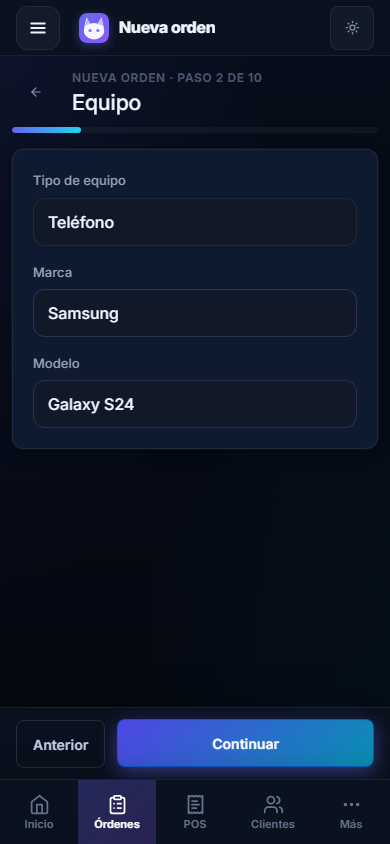
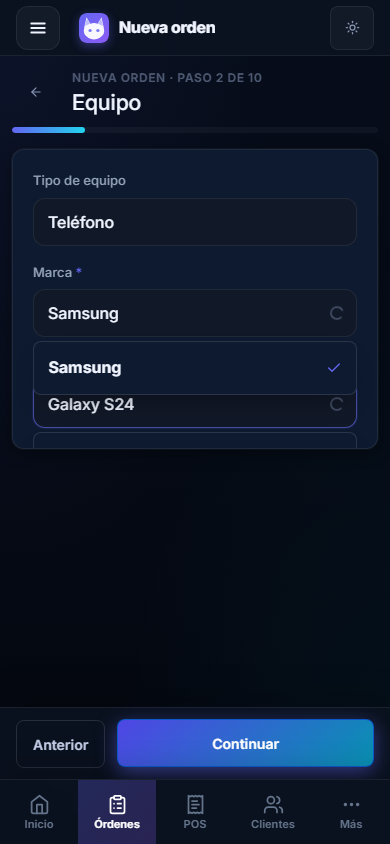
fix(orders): wire intake to the new UI authorities
Cablea al wizard las tres piezas del lote y agrega la cobertura que faltaba.

  - Marca y modelo pasan de `<datalist>` a `AppCombobox`, con el estado de
    carga del catalogo.
  - Presupuesto pasa a `AppMoneyInput`. El resumen deja de mostrar
    `ARS 85.000` como texto crudo y usa `formatMoney`.
  - El scanner recibe que identificador se esta escaneando.

Tests de WebKit REAL

Este bloque existe porque el E2E responsive que ya habia NO detecto nada de lo
que el owner encontro en dos minutos con su telefono. Corria Chromium con el
viewport chico, y los dos bugs eran divergencias de MOTOR, no de ancho:
Chromium tiene `BarcodeDetector` y renderiza `<datalist>`, asi que daba verde
con los dos defectos presentes.

Se agrega el proyecto `webkit-mobile` (iPhone 13, WebKit real) que corre solo
los specs bajo `tests/e2e/webkit/`, para no duplicar el tiempo de CI. Prueba
contra el motor que `BarcodeDetector` no existe, que la lista de marcas SI se
despliega ahora, que el texto libre sigue permitido, y que cambiar de moneda no
convierte el importe.

LIMITE HONESTO, anotado en el propio spec: el WebKit headless de Playwright
comparte motor con Safari pero no trae el stack de medios, asi que
`navigator.mediaDevices` no existe aunque en Safari iOS sobre HTTPS si. Los
tests de camara INYECTAN `mediaDevices` para reproducir el equipo del owner.
Lo que WebKit prueba por si solo es la ausencia de `BarcodeDetector`. Esto no
reemplaza un smoke en un iPhone de verdad.
[…]

Changed region(s): [[0.0923, 0.4005, 0.3385, 0.4929], [0.8308, 0.4313, 0.9231, 0.5237]]

diff --git a/src/pages/NewOrder.tsx b/src/pages/NewOrder.tsx
@@ -4,7 +4,8 @@ import { ArrowLeft, Camera, ChevronLeft, ChevronRight, ScanLine, ShieldCheck, Tr
 import { customersService } from '../services/api'
 import { ensureBrandAndModel } from '../services/deviceCatalogService'
 import type { Customer } from '../lib/supabase'
-import { AppButton, AppInput, AppSelect, AppTextarea, FormGrid, MobileActionBar, ResponsiveDialog } from '../ui'
+import { AppButton, AppCombobox, AppInput, AppMoneyInput, AppSelect, AppTextarea, FormGrid, MobileActionBar, ResponsiveDialog } from '../ui'
+import { formatMoney } from '../lib/money'
 import { useAuth } from '../contexts/AuthContext'
 import { effectivePermissions, usePermissions } from '../hooks/usePermissions'
 import { BarcodeScannerDialog } from '../features/order-intake/BarcodeScannerDialog'
@@ -71,7 +72,7 @@ export function NewOrder() {
   useEffect(()=>{photosRef.current=photos},[photos])
   useEffect(() => () => { photosRef.current.forEach(photo=>URL.revokeObjectURL(photo.preview)) },[])
 
-  const {brands,models}=useDeviceCatalog(draft.device.brand)
+  const {brands,models,loading:catalogLoading}=useDeviceCatalog(draft.device.brand)
 
   const stepError = () => {
     if(step===0&&!draft.customerId)return 'Seleccioná o creá un cliente.'
@@ -143,7 +144,19 @@ export function NewOrder() {
     {step===0&&<StepCard><CustomerPicker businessId={businessId} selectedId={draft.customerId} pinned={createdCustomers} onCreateNew={()=>setQuickOpen(true)} onSelect={customer=>{setSelectedCustomer(customer);update({customerId:customer.id})}}/></StepCard>}
 
     {step===1&&<StepCard><AppSelect label="Tipo de equipo" value={draft.device.type} onChange={e=>updateDevice({type:e.target.value as IntakeDraft['device']['type']})} options={[{value:'smartphone',label:'Teléfono'},{value:'tablet',label:'Tablet'},{value:'laptop',label:'Notebook'},{value:'smartwatch',label:'Smartwatch'},{value:'other',label:'Otro'}]}/>
-      <FormGrid><div><AppInput label="Marca" required value={draft.device.brand} onChange={e=>updateDevice({brand:e.target.value,model:''})} list="intake-brands"/><datalist id="intake-brands">{brands.map(item=><option key={item} value={item}/>)}</datalist></div><div><AppInput label="Modelo" required value={draft.device.model} onChange={e=>updateDevice({model:e.target.value})} list="intake-models"/><datalist id="intake-models">{models.map(item=><option key={item} value={item}/>)}</datalist></div></FormGrid>
+      {/* ORDERS-V2-0.1 — `<datalist>` no despliega sugerencias en WebKit móvil:
+          en el celular esto era un campo de texto pelado. AppCombobox dibuja la
+          lista con marcado propio y sigue aceptando texto libre. */}
+      <FormGrid>
+        <AppCombobox label="Marca" required value={draft.device.brand} options={brands} loading={catalogLoading}
+          data-testid="intake-brand" autoCapitalize="words"
+          emptyHint="No está en el catálogo. Podés escribirla igual."
+          onChange={value=>updateDevice({brand:value,model:''})}/>
+        <AppCombobox label="Modelo" required value={draft.device.model} options={models} loading={catalogLoading}
+          data-testid="intake-model" autoCapitalize="words"
+          emptyHint="No está en el catálogo. Podés escribirlo igual."
+          onChange={value=>updateDevice({model:value})}/>
+      </FormGrid>
     </StepCard>}
 
     {step===2&&<StepCard><div className="intake-field-action"><AppInput label="Número de serie" value={draft.device.serial} onChange={e=>updateDevice({serial:e.target.value})} autoCapitalize="characters"/><AppButton variant="secondary" leftIcon={<ScanLine size={17}/>} onClick={()=>setScanner('serial')}>Escanear</AppButton></div>
@@ -172,7 +185,15 @@ export function NewOrder() {
 
     {step===7&&<StepCard><AppSelect label="Técnico / responsable" value={draft.assignedProfileId} onChange={e=>update({assignedProfileId:e.target.value})} placeholder="Sin asignar" options={profiles.map(profile=>({value:profile.id,label:profile.full_name||profile.email||'Integrante'}))}/><AppSelect label="Prioridad" value={draft.priority} onChange={e=>update({priority:e.target.value as IntakeDraft['priority']})} options={[{value:'medium',label:'Normal'},{value:'high',label:'Importante'},{value:'urgent',label:'Urgente'}]}/></StepCard>}
 
-    {step===8&&<StepCard><p className="form-hint">El presupuesto es opcional y no registra pagos ni movimientos financieros.</p><FormGrid><AppInput semantic="decimal" label="Presupuesto estimado" value={draft.budgetAmount} onChange={e=>update({budgetAmount:e.target.value})} placeholder="Ej. 100.000,50"/><AppSelect label="Moneda" value={draft.budgetCurrency} onChange={e=>update({budgetCurrency:e.target.value as 'ARS'|'USD'})} options={[{value:'ARS',label:'ARS — Pesos'},{value:'USD',label:'USD — Dólares'}]}/></FormGrid></StepCard>}
+    {/* ORDERS-V2-0.1 — moneda y monto eran dos controles sueltos y `85000` se
+        veía igual en pesos que en dólares. AppMoneyInput los une y pone el
+        prefijo adentro del campo. Cambiar de moneda NO convierte el importe. */}
+    {step===8&&<StepCard><p className="form-hint">El presupuesto es opcional y no registra pagos ni movimientos financieros.</p>
+      <AppMoneyInput label="Presupuesto estimado" data-testid="intake-budget"
+        value={draft.budgetAmount} onValueChange={value=>update({budgetAmount:value})}
+        currency={draft.budgetCurrency} onCurrencyChange={currency=>update({budgetCurrency:currency})}
+        hint="Sólo cambia la unidad: el número que cargaste queda como está."/>
+    </StepCard>}
 
     {step===9&&<StepCard><div className="intake-summary">
       <Summary title="Cliente" onEdit={()=>setStep(0)}>{selectedCustomer?.name}</Summary>
@@ -183,7 +204,9 @@ export function NewOrder() {
       <Summary title="Acceso" onEdit={()=>setStep(5)}>{['pin','pattern','password'].includes(draft.accessMode)?`${ACCESS.find(a=>a.value===draft.accessMode)?.label} configurado`:ACCESS.find(a=>a.value===draft.accessMode)?.label}</Summary>
       <Summary title="Problema" onEdit={()=>setStep(6)}>{draft.problem}</Summary>
       <Summary title="Asignación" onEdit={()=>setStep(7)}>{profiles.find(profile=>profile.id===draft.assignedProfileId)?.full_name||'Sin asignar'} · {draft.priority==='medium'?'Normal':draft.priority==='high'?'Importante':'Urgente'}</Summary>
-      <Summary title="Presupuesto" onEdit={()=>setStep(8)}>{draft.budgetAmount?`${draft.budgetCurrency} ${draft.budgetAmount}`:'Sin presupuesto'}</Summary>
+      {/* El resumen mostraba `ARS 85.000` como texto crudo. Con la autoridad
+          de formato la moneda se lee de un vistazo: `$ 85.000,00` / `US$ …`. */}
+      <Summary title="Presupuesto" onEdit={()=>setStep(8)}>{formatMoney(parseLocalizedAmount(draft.budgetAmount),draft.budgetCurrency,{fallback:'Sin presupuesto'})}</Summary>
     </div></StepCard>}
 
     <div className="intake-desktop-actions"><AppButton variant="secondary" onClick={step===0?cancel:back} leftIcon={<ChevronLeft size={18}/>}>{step===0?'Cancelar':'Anterior'}</AppButton>{step<9?<AppButton variant="primary" onClick={next} rightIcon={<ChevronRight size={18}/>}>Continuar</AppButton>:<AppButton variant="primary" loading={submitting} onClick={submit}>{createdOrderId?'Reintentar fotos':'Crear orden'}</AppButton>}</div>
@@ -196,7 +219,9 @@ export function NewOrder() {
       setCreatedCustomers(previous=>[option,...previous.filter(item=>item.id!==option.id)])
       setSelectedCustomer(option);update({customerId:customer.id});setQuickOpen(false)
     }}/>
-    <BarcodeScannerDialog open={scanner!==null} onClose={()=>setScanner(null)} onDetected={value=>scanner&&updateDevice({[scanner]:scanner==='imei'?normalizeImei(value):value} as Partial<IntakeDraft['device']>)}/>
+    {/* El IMEI escaneado pasa por la MISMA normalización que el tipeado; el
+        serial no hereda la validación de IMEI, que es otro identificador. */}
+    <BarcodeScannerDialog open={scanner!==null} target={scanner} onClose={()=>setScanner(null)} onDetected={value=>scanner&&updateDevice({[scanner]:scanner==='imei'?normalizeImei(value):value.trim()} as Partial<IntakeDraft['device']>)}/>
   </>
 }
 

diff --git a/tests/e2e/webkit/intake-mobile.spec.ts b/tests/e2e/webkit/intake-mobile.spec.ts
@@ -1,0 +1,161 @@
+/**
+ * ORDERS-V2-0.1 · WebKit REAL a 390×844 (iPhone 13).
+ *
+ * Este archivo existe porque el E2E responsive que ya había NO detectó nada de
+ * lo que el owner encontró en dos minutos con su teléfono. La razón es que
+ * corría Chromium con el viewport chico, y los dos bugs eran divergencias de
+ * MOTOR, no de ancho:
+ *
+ *   1. `BarcodeDetector` no existe en WebKit → el scanner decía
+ *      "no disponible" sin siquiera intentar abrir la cámara.
+ *   2. `<datalist>` no despliega opciones en WebKit móvil → marca y modelo se
+ *      veían como campos de texto pelados.
+ *
+ * Chromium tiene la primera API y renderiza la segunda, así que daba verde con
+ * los dos defectos presentes.
+ *
+ * ── LÍMITE HONESTO DE ESTE ARCHIVO ────────────────────────────────────────
+ * El WebKit headless de Playwright comparte el motor con Safari, pero NO trae
+ * el stack de medios: `navigator.mediaDevices` no existe, aunque en Safari iOS
+ * sobre HTTPS sí. Por eso los tests de cámara **inyectan** `mediaDevices` para
+ * reproducir el dispositivo del owner (sin BarcodeDetector, con getUserMedia).
+ * Lo que WebKit prueba por sí solo es la ausencia de `BarcodeDetector`, que es
+ * la mitad decisiva del root cause. Esto no reemplaza un smoke en un iPhone
+ * de verdad.
+ */
+import { expect, test, type Page } from '@playwright/test'
+
+const EVIDENCE = 'docs/orders-v2-0-1-evidence'
+/** El cliente que siembra `e2e:prepare`. */
+const SEED_CUSTOMER = 'Cliente E2E'
+
+async function noHorizontalOverflow(page: Page) {
+  const overflow = await page.evaluate(() =>
+    document.documentElement.scrollWidth - document.documentElement.clientWidth)
+  expect(overflow, 'no puede scrollear en horizontal').toBeLessThanOrEqual(0)
+}
+
+async function continuar(page: Page) {
+  await page.getByRole('button', { name: 'Continuar' }).last().click()
+}
+
+/** Elige el cliente sembrado. La búsqueda exige 2 caracteres como mínimo. */
+async function elegirCliente(page: Page) {
+  await page.getByTestId('customer-picker-search').fill(SEED_CUSTOMER)
+  const option = page.getByRole('button', { name: new RegExp(SEED_CUSTOMER) }).first()
+  await option.waitFor({ timeout: 20000 })
+  await option.click()
+  await continuar(page)
+}
+
+/** Simula el equipo del owner sobre el motor real: sin la API, con cámara. */
+async function simularSafariConCamara(page: Page) {
+  await page.addInitScript(() => {
+    Object.defineProperty(navigator, 'mediaDevices', {
+      configurable: true,
+      value: {
+        getUserMedia: () => Promise.reject(Object.assign(new Error('x'), { name: 'NotAllowedError' })),
+        enumerateDevices: () => Promise.resolve([{ kind: 'videoinput', label: '' }]),
+      },
+    })
+  })
+}
+
+test.describe('@webkit ORDERS-V2-0.1 · WebKit móvil', () => {
+  test('el motor confirma el root cause: BarcodeDetector no existe', async ({ page }) => {
+    await page.goto('/orders/new')
+    const hasDetector = await page.evaluate(() => 'BarcodeDetector' in window)
+
+    // Ésta es la medición que explica el bug. La compuerta del scanner era
+    // exactamente `!window.BarcodeDetector`, así que en este motor —el del
+    // iPhone del owner— la app se rendía siempre.
+    expect(hasDetector, 'WebKit no implementa la Barcode Detection API').toBe(false)
+  })
+
+  test('sin BarcodeDetector el scanner ofrece la cámara en vez de rendirse', async ({ page }) => {
+    await simularSafariConCamara(page)
+    await page.goto('/orders/new')
+    await elegirCliente(page)
+
+    await page.getByTestId('intake-brand').fill('Samsung')
+    await page.getByTestId('intake-model').fill('A04e')
+    await continuar(page)
+
+    await page.getByRole('button', { name: 'Escanear' }).first().click()
+    await expect(page.getByTestId('barcode-scanner')).toBeVisible()
+
+    // ANTES: cartel "Este navegador no ofrece escaneo" y ningún botón.
+    // AHORA: se ofrece pedir permiso, porque la cámara sí está.
+    await expect(page.getByTestId('scanner-start')).toBeVisible()
+    await page.screenshot({ path: `${EVIDENCE}/webkit-390-01-scanner-ofrece-camara.png` })
+
+    // Y si el permiso se niega, se explica cómo destrabarlo — no se culpa al
+    // navegador ni se pierde el ingreso manual.
+    await page.getByTestId('scanner-start').click()
+    await expect(page.getByTestId('scanner-error')).toContainText(/No diste permiso/i)
+    await expect(page.getByText(/escribir el número de serie a mano/i)).toBeVisible()
+    await page.screenshot({ path: `${EVIDENCE}/webkit-390-02-scanner-permiso-denegado.png` })
+  })
+
+  test('marca y modelo se despliegan de verdad en WebKit', async ({ page }) => {
+    await page.goto('/orders/new')
+    await elegirCliente(page)
+
+    const marca = page.getByTestId('intake-brand')
+    await expect(marca).toBeVisible()
+    await expect(marca).toHaveAttribute('role', 'combobox')
+
+    // El corazón del bug: en WebKit `<datalist>` no mostraba nada. Con el
+    // combobox propio la lista es DOM de la app y se puede aseverar.
+    await marca.click()
+    const listbox = page.getByRole('listbox', { name: 'Sugerencias de Marca' })
+    await expect(listbox).toBeVisible()
+    expect(await listbox.getByRole('option').count()).toBeGreaterThan(0)
+    await page.screenshot({ path: `${EVIDENCE}/webkit-390-03-marca-abierta.png` })
+
+    await marca.fill('Samsung')
+    await page.getByRole('option', { name: 'Samsung', exact: true }).first().click()
+    await expect(marca).toHaveValue('Samsung')
+
+    // El texto libre sigue permitido: el taller recibe equipos que el catálogo
+    // no conoce.
+    const modelo = page.getByTestId('intake-model')
+    await modelo.click()
+    await modelo.fill('Modelo Inexistente 9000')
+    await expect(modelo).toHaveValue('Modelo Inexistente 9000')
+    await page.screenshot({ path: `${EVIDENCE}/webkit-390-04-modelo-texto-libre.png` })
+
+    await noHorizontalOverflow(page)
+  })
+
+  test('el presupuesto muestra la moneda y no la convierte', async ({ page }) => {
+    await page.goto('/orders/new')
+    await elegirCliente(page)
+
+    await page.getByTestId('intake-brand').fill('Samsung')
+    await page.getByTestId('intake-model').fill('A04e')
+    await continuar(page)   // equipo → identificación
+    await continuar(page)   // → estado y fotos
+    await continuar(page)   // → checklist
+    await continuar(page)   // → acceso
+    await continuar(page)   // → problema
+    await page.getByLabel('Problema informado por el cliente').fill('No carga')
+    await continuar(page)   // → asignación
+    await continuar(page)   // → presupuesto
+
+    const amount = page.getByTestId('intake-budget')
+    await expect(amount).toBeVisible()
+    await amount.fill('85000')
+    await expect(amount).toHaveValue('85.000')
+    await expect(page.locator('.app-money-prefix')).toHaveText('$')
+    await page.screenshot({ path: `${EVIDENCE}/webkit-390-05-presupuesto-ars.png` })
+
+    await page.getByTestId('intake-budget-currency').selectOption('USD')
+    await expect(page.locator('.app-money-prefix')).toHaveText('US$')
+    // INVARIANTE: cambia la unidad, nunca el número.
+    await expect(amount).toHaveValue('85.000')
+    await page.screenshot({ path: `${EVIDENCE}/webkit-390-06-presupuesto-usd.png` })
+
+    await noHorizontalOverflow(page)
+  })
+})

diff --git a/src/index.css b/src/index.css
@@ -1454,7 +1454,56 @@ table { width: 100%; border-collapse: collapse; }
 .intake-desktop-actions { display:flex; justify-content:space-between; gap:1rem; margin-top:1rem; }
 .intake-scanner { display:flex; min-height:55dvh; flex-direction:column; align-items:center; justify-content:center; gap:1rem; text-align:center; }
 .intake-scanner video { width:100%; max-height:55dvh; border-radius:var(--radius-lg); background:#020617; }
+/* El video ocupa lugar recién cuando hay imagen: si no, deja un rectángulo
+   negro encima del botón de permiso y parece que la cámara ya se abrió. */
+.intake-scanner video[data-scanning="false"] { display:none; }
 body.app-modal-open .mobile-bottom-nav { visibility:hidden; pointer-events:none; }
+
+/* ── AppCombobox (ORDERS-V2-0.1) ────────────────────────────────────────────
+   Sugerencias dibujadas por la app, no por el navegador: `<datalist>` no se
+   despliega de forma confiable en WebKit móvil. */
+.app-combobox { position:relative; }
+.app-combobox .form-label.is-required::after { content:' *'; color:var(--accent-primary); }
+.app-combobox-field { position:relative; display:flex; align-items:center; }
+.app-combobox-field .form-control { width:100%; padding-right:2.5rem; }
+.app-combobox-toggle { position:absolute; right:.25rem; display:grid; place-items:center;
+  width:2rem; height:2rem; border:0; border-radius:var(--radius-md); background:transparent;
+  color:var(--text-subtle); cursor:pointer; }
+.app-combobox-toggle:hover:not(:disabled) { color:var(--text-primary); }
+.app-combobox-list { position:absolute; z-index:40; left:0; right:0; top:calc(100% + .25rem);
+  margin:0; padding:.25rem; list-style:none; max-height:16rem; overflow-y:auto;
+  background:var(--bg-card); border:1px solid var(--border-strong);
+  border-radius:var(--radius-md); box-shadow:0 12px 28px -12px rgba(0,0,0,.45);
+  -webkit-overflow-scrolling:touch; }
+.app-combobox-option { display:flex; align-items:center; justify-content:space-between; gap:.5rem;
+  min-height:44px; padding:.5rem .65rem; border-radius:var(--radius-md);
+  color:var(--text-primary); cursor:pointer; }
+.app-combobox-option.is-active { background:var(--bg-tertiary); }
+/* La selección no se apoya sólo en el color: además va el check y el peso. */
+.app-combobox-option.is-selected { font-weight:700; }
+.app-combobox-option.is-selected svg { color:var(--accent-primary); }
+.app-combobox-status { padding:.6rem .65rem; color:var(--text-subtle); font-size:.85rem; }
+
+/* ── AppMoneyInput (ORDERS-V2-0.1) ──────────────────────────────────────────
+   Moneda y monto como una sola unidad: el prefijo vive dentro del campo. */
+/* Etiqueta sólo para lectores de pantalla. No existía en el proyecto y el
+   selector de moneda la necesita: visualmente el prefijo ya dice la moneda,
+   pero el `<select>` tiene que tener nombre propio igual. */
+.sr-only { position:absolute; width:1px; height:1px; padding:0; margin:-1px;
+  overflow:hidden; clip:rect(0 0 0 0); white-space:nowrap; border:0; }
+.app-money-field { display:grid; grid-template-columns:minmax(0,11rem) minmax(0,1fr); gap:.5rem; }
+.app-money-currency { min-height:44px; padding:.5rem .6rem; border-radius:var(--radius-md);
+  border:1px solid var(--border-subtle); background:var(--bg-card); color:var(--text-primary); }
+.app-money-amount { position:relative; display:flex; align-items:center; }
+.app-money-prefix { position:absolute; left:.7rem; font-weight:700; color:var(--text-secondary);
+  pointer-events:none; font-variant-numeric:tabular-nums; }
+/* El monto se reserva el ancho del prefijo más largo (`US$`) para que el
+   número no salte al cambiar de moneda. */
+.app-money-amount .form-control { width:100%; padding-left:3.1rem; text-align:right;
+  font-variant-numeric:tabular-nums; font-weight:600; }
+@media (max-width: 480px) {
+  .app-money-field { grid-template-columns:minmax(0,1fr); }
+}
 
 @media (max-width: 767px) {
   .intake-page { margin:-.25rem; }

diff --git a/tests/e2e/m7/ordersV20Desktop.spec.ts b/tests/e2e/m7/ordersV20Desktop.spec.ts
@@ -51,12 +51,21 @@ test.describe('@ordersv20 ORDERS-V2-0 · desktop', () => {
     await continuar(page)
 
     // ── Equipo · catálogo ──────────────────────────────────────────────────
-    const marca = page.getByLabel('Marca')
-    await expect(marca).toHaveAttribute('list', 'intake-brands')
-    // El catálogo real se resuelve en runtime; las marcas base siempre están.
-    await expect(page.locator('#intake-brands option').first()).toHaveCount(1)
+    // ORDERS-V2-0.1: dejó de ser `<input list>` + `<datalist>` — en WebKit
+    // móvil esa lista no se desplegaba. Ahora es un combobox con marcado
+    // propio, así que las opciones se pueden aseverar de verdad.
+    // Se toma por testid y no por etiqueta: `getByLabel` de Playwright hace
+    // match por SUBCADENA, así que «Marca» también resolvería a la lista
+    // «Sugerencias de Marca». (En testing-library el match es exacto, por eso
+    // los tests de componente sí pueden usar la etiqueta.)
+    const marca = page.getByTestId('intake-brand')
+    await expect(marca).toHaveAttribute('role', 'combobox')
+    await marca.click()
+    const listbox = page.getByRole('listbox', { name: 'Sugerencias de Marca' })
+    await expect(listbox).toBeVisible()
+    expect(await listbox.getByRole('option').count()).toBeGreaterThan(0)
     await marca.fill('Samsung')
-    await page.getByLabel('Modelo').fill('Galaxy A04e')
+    await page.getByTestId('intake-model').fill('Galaxy A04e')
     await noHorizontalOverflow(page)
     await page.screenshot({ path: `${EVIDENCE}/1440-02-catalogo.png` })
     await continuar(page)

diff --git a/tests/e2e/m7/mobile2a-order-intake.spec.ts b/tests/e2e/m7/mobile2a-order-intake.spec.ts
@@ -76,7 +76,9 @@ test.describe('@mobile2a MOBILE-2A · recepción OWNER',()=>{
     await continueStep(page)
 
     await page.getByRole('button',{name:'Escanear'}).first().click()
-    await expect(page.getByRole('dialog',{name:'Escanear identificación'})).toBeVisible()
+    // ORDERS-V2-0.1: el diálogo dice QUÉ se escanea. El primer botón
+    // «Escanear» es el del número de serie.
+    await expect(page.getByRole('dialog',{name:'Escanear número de serie'})).toBeVisible()
     await page.screenshot({path:`${EVIDENCE}/390x844-03-scanner-fallback.png`})
     await page.getByRole('dialog').getByRole('button',{name:'Cerrar'}).last().click()
     await page.getByLabel('Número de serie').fill('SERIAL-E2E-M2A')
@@ -114,8 +116,12 @@ test.describe('@mobile2a MOBILE-2A · recepción OWNER',()=>{
     await continueStep(page)
     await page.getByLabel('Prioridad').selectOption('high')
     await continueStep(page)
-    await page.getByLabel('Presupuesto estimado').fill('150,50')
-    await page.getByLabel('Moneda').selectOption('USD')
+    // ORDERS-V2-0.1: moneda y monto son una sola unidad (AppMoneyInput). El
+    // grupo lleva el nombre del campo, así que el monto se toma por testid.
+    await page.getByTestId('intake-budget').fill('150,50')
+    await expect(page.getByTestId('intake-budget')).toHaveValue('150,50')
+    await page.getByTestId('intake-budget-currency').selectOption('USD')
+    await expect(page.locator('.app-money-prefix')).toHaveText('US$')
     await page.screenshot({path:`${EVIDENCE}/390x844-08-presupuesto-usd.png`})
     await continueStep(page)
 

diff --git a/playwright.config.ts b/playwright.config.ts
@@ -102,5 +102,27 @@ export default defineConfig({
         serviceWorkers: 'block',
       },
     },
+    /**
+     * ORDERS-V2-0.1 — WebKit real, no Chromium emulando un iPhone.
+     *
+     * El human smoke falló por dos divergencias de motor que Chromium con
+     * viewport chico NO puede reproducir: `BarcodeDetector` no existe en
+     * WebKit, y `<datalist>` no despliega sus opciones. Un proyecto "mobile
+     * Chromium" habría dado verde con los dos bugs presentes — de hecho el
+     * E2E responsive que ya existía los dejó pasar.
+     *
+     * Sólo corre los specs marcados `webkit/`: el resto de la suite sigue
+     * siendo Chromium y no se duplica el tiempo de CI.
+     */
+    {
+      name: 'webkit-mobile',
+      testMatch: /webkit\/.*\.spec\.ts/,
+      use: {
+        ...devices['iPhone 13'],
+        browserName: 'webkit',
+        storageState: 'tests/e2e/.auth/owner.json',
+        serviceWorkers: 'block',
+      },
+    },
   ],
 })
